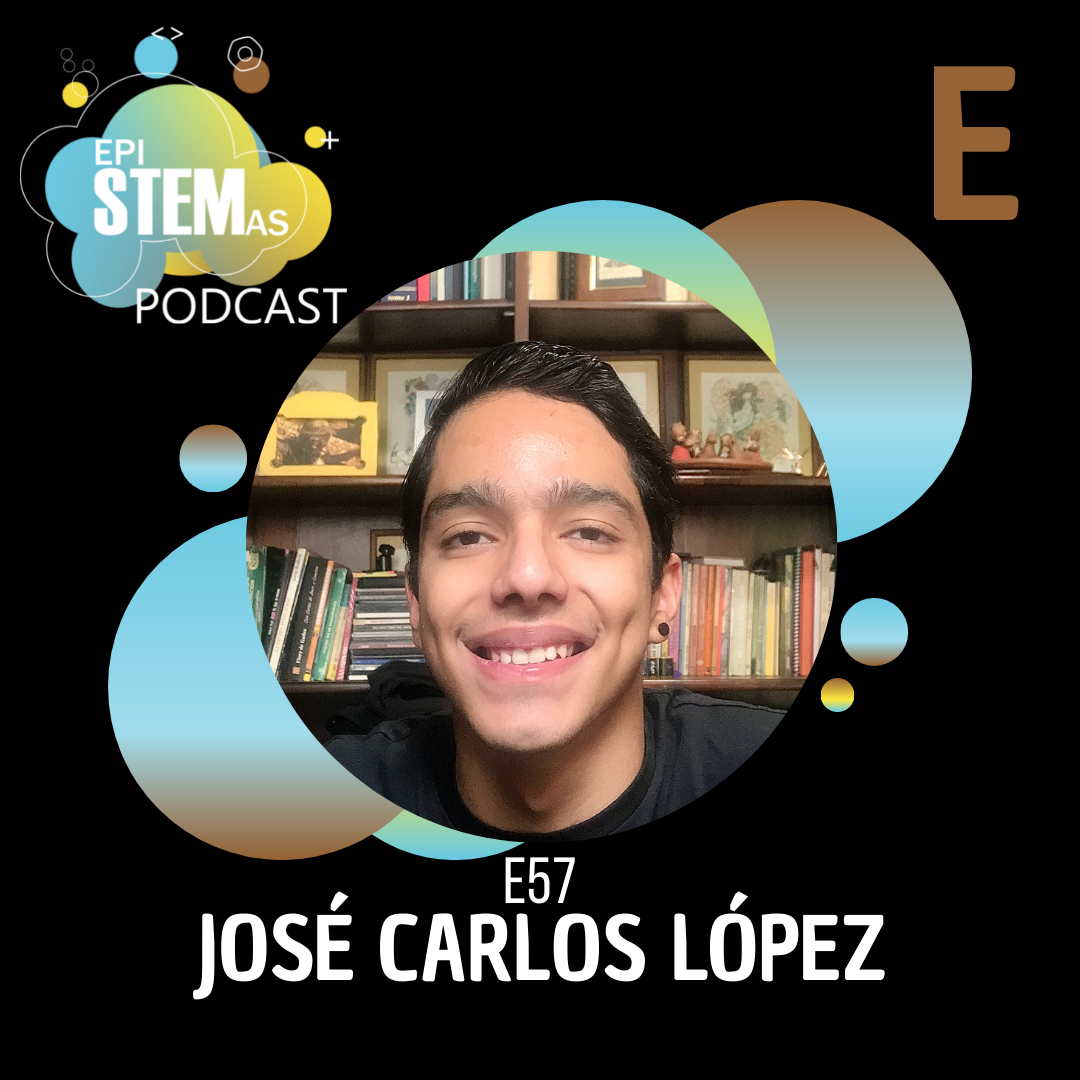
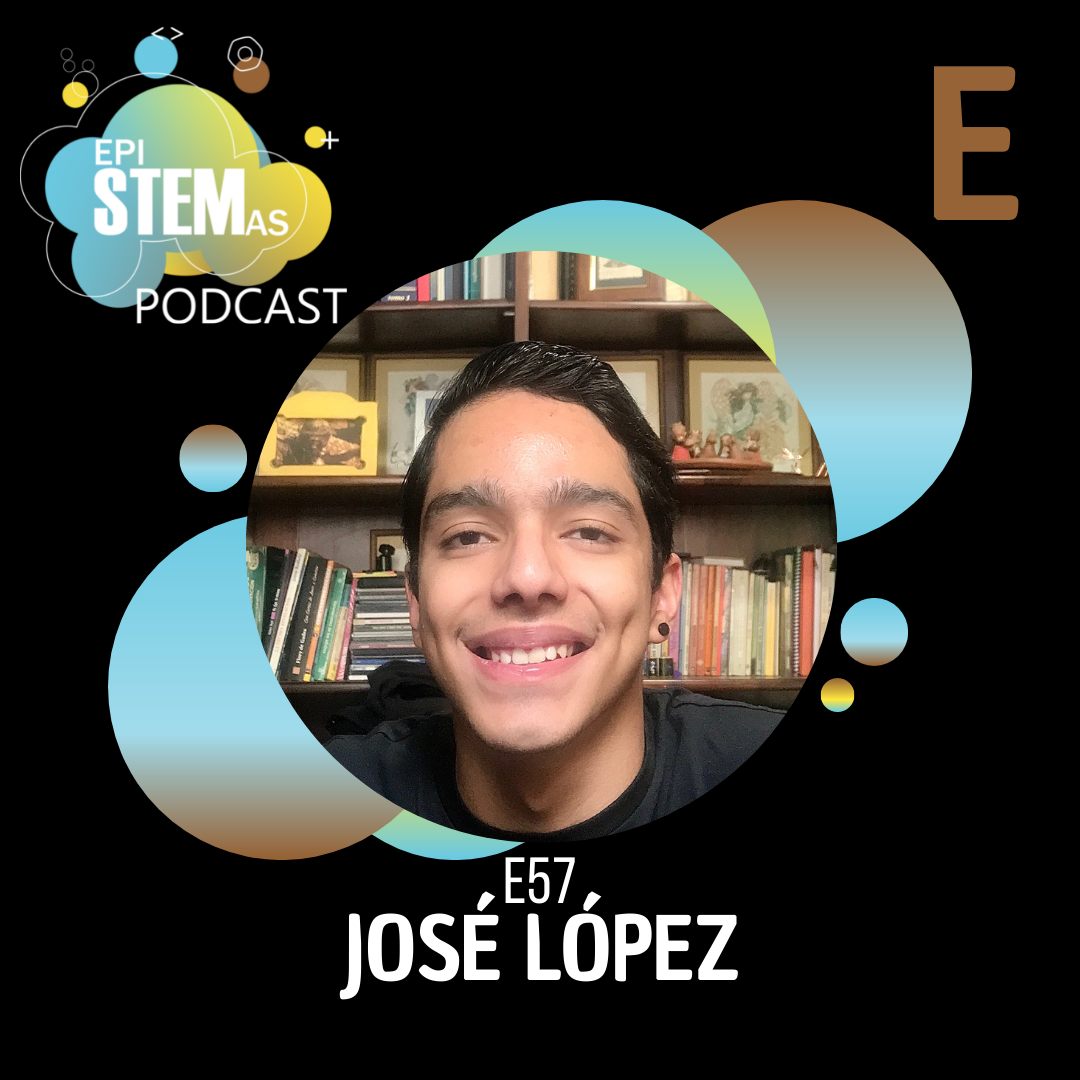
corrección nombre JOsé López y foto nueva

Changed region(s): [[0.1833, 0.825, 0.825, 0.9472]]

diff --git a/content/post/2022-05-24-e57josecarloslopez/index.es.md b/content/post/2022-05-24-e57josecarloslopez/index.es.md
@@ -1,8 +1,8 @@
 ---
-title: 'E57 José Carlos López: Ingeniería Mecánica y Creación de Contenido'
+title: 'E57 José López: Ingeniería Mecánica y Creación de Contenido'
 author: epiSTEMas
 date: '2022-05-24'
-slug: e57josecarloslopez
+slug: e57joselopez
 categories:
   - Ingeniería Mecánica
 tags:
